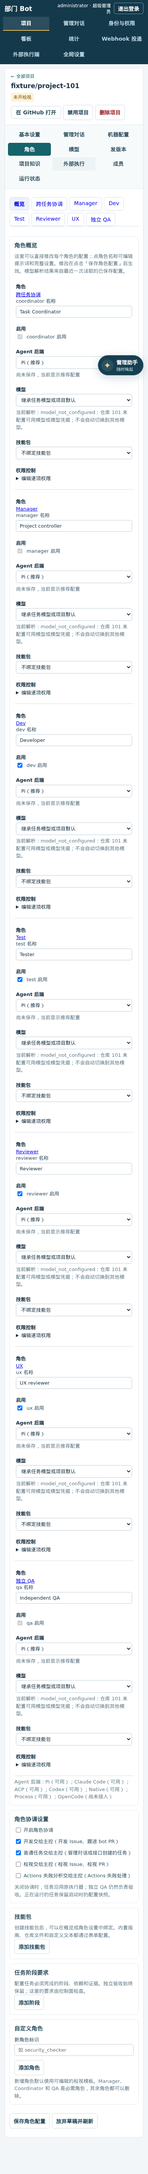
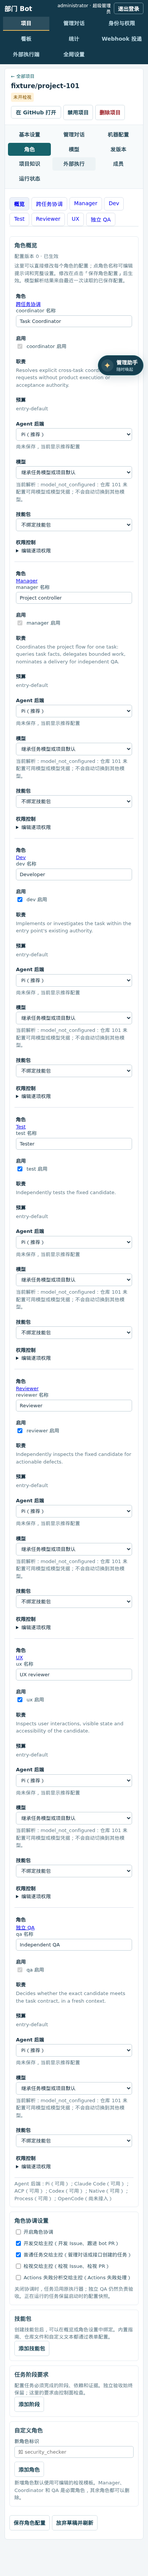
fix(roles): mark the draft dirty through one entry so the version line never lies
The line only refreshed for controls that went through `roleBound`. A plain
`<select>` — model, permission mode, skill bundle, model API, structured
output, environment, output schema, budget currency — set `state.dirty`
directly, so the overview kept saying "已生效" while the draft had moved. All
22 edit paths now go through `markDirty`, which sets the flag and refreshes the
line wherever it is on screen. The line also stops claiming a revision for a
configuration that was never saved: it says 尚未保存角色配置 instead of
配置版本 0 · 已生效. Screenshots are refreshed for the pair.

diff --git a/static/roles.js b/static/roles.js
@@ -9,12 +9,17 @@ function roleSelect(name, value, choices, change) {
   if (!Array.from(select.querySelectorAll('option')).some(option => option.value === String(value ?? ''))) select.add(new Option(`当前选项不可用：${value}`, value));
   select.value = value ?? ''; select.addEventListener('change', () => change(select.value)); return select;
 }
-// The list states which revision is in force and whether the draft has moved away from it; every control that
-// dirties the draft refreshes that line, so "saved" and "edited but not saved" are never confused.
+// The list states which revision is in force and whether the draft has moved away from it. A configuration that was
+// never saved has no revision to name, so it says that instead of printing "version 0 · in force".
 let roleDraftStatus = null;
-const roleVersionText = state => `配置版本 ${state.data.revision} · ${state.dirty ? '草稿未保存' : '已生效'}`;
+const roleVersionText = state => state.data.configured
+  ? `配置版本 ${state.data.revision} · ${state.dirty ? '草稿未保存' : '已生效'}`
+  : `尚未保存角色配置${state.dirty ? ' · 草稿未保存' : ''}`;
+// The one way an edit marks the draft dirty. Controls that redraw and controls that only mutate the draft all end up
+// here, so the version line cannot say "in force" while the draft has moved — that was the defect this replaces.
+function markDirty(state) { state.dirty = true; if (roleDraftStatus) roleDraftStatus.textContent = roleVersionText(state); }
 function roleBound(control, change, state) {
-  const edit = () => { change(control.type === 'checkbox' ? control.checked : control.value); state.dirty = true; if (roleDraftStatus) roleDraftStatus.textContent = roleVersionText(state); };
+  const edit = () => { change(control.type === 'checkbox' ? control.checked : control.value); markDirty(state); };
   control.addEventListener('input', edit); control.addEventListener('change', edit); return control;
 }
 function roleText(label, object, key, state, { multiline = false, ...attributes } = {}) {
@@ -35,7 +40,7 @@ function roleChoices(title, object, key, choices, state) {
 function roleModelPicker(role, state, redraw) {
   const { data } = state, backend = data.harnesses.find(entry => entry.id === role.harness_ref.id), external = !!backend?.externalModel;
   const select = roleSelect(role.role_id + ' 模型', role.model_profile_ref?.model_id || '', [['', external ? 'Agent 自带模型' : '继承任务模型或项目默认'], ...(data.models || []).map(model => [model.id, model.name + (model.shared ? '（共享）' : '')])], id => {
-    state.dirty = true;
+    markDirty(state);
     role.model_profile_ref = id ? { model_id: id, api: backend?.model_api?.[0] || 'openai-chat-completions', tool_calls: true, structured_output: backend?.structured_output?.includes('tool_call') ? 'tool_call' : backend?.structured_output?.[0] || 'tool_call' } : null;
   });
   if (redraw) select.addEventListener('change', redraw);
@@ -43,7 +48,7 @@ function roleModelPicker(role, state, redraw) {
 }
 function roleBackendPicker(role, state, redraw) {
   return roleSelect(role.role_id + ' Agent 后端', role.harness_ref.id, state.data.backends.map(backend => [backend.id, backend.name + (backend.recommended ? '（推荐）' : '') + (backend.available ? '' : '（尚不可用）'), !backend.available || !backend.kinds.includes(role.kind)]), id => {
-    role.harness_ref = { id }; state.dirty = true;
+    role.harness_ref = { id }; markDirty(state);
     // A backend that brings its own model cannot accept a project model profile.
     if (state.data.harnesses.find(backend => backend.id === id)?.externalModel) role.model_profile_ref = null;
     redraw();
@@ -54,7 +59,7 @@ function rolePermissionEditor(role, state) {
   const box = element('fieldset', '', 'role-permissions'); box.append(element('legend', '权限控制'));
   box.append(note('逐项设置。工具还必须由当前任务入口提供，并受项目和任务授权限制。文件只读不会禁止命令修改文件；要禁止命令，请同时将「运行命令」设为拒绝。'));
   for (const item of state.data.permission_items || []) {
-    const control = roleSelect(role.role_id + ' ' + item.name + '权限', role.permissions[item.id], item.modes.map(mode => [mode, permissionModeLabels[mode]]), value => { role.permissions[item.id] = value; state.dirty = true; });
+    const control = roleSelect(role.role_id + ' ' + item.name + '权限', role.permissions[item.id], item.modes.map(mode => [mode, permissionModeLabels[mode]]), value => { role.permissions[item.id] = value; markDirty(state); });
     const row = element('div', '', 'role-permission-row'); row.append(field(item.name, control), note(item.detail)); box.append(row);
   }
   return box;
@@ -136,12 +141,12 @@ function roleOverviewCards(state, redraw) {
   const error = element('p', '', 'view-error'); custom.append(field('新角色标识', name), button('添加角色', () => {
     if (!/^[a-z][a-z0-9_-]{0,31}$/.test(name.value) || draft.roles.some(role => role.role_id === name.value)) { error.textContent = '使用小写字母开头的唯一名称，可包含数字、下划线或连字符。'; return; }
     const defaults = structuredClone(Object.hasOwn(data.role_defaults, name.value) ? data.role_defaults[name.value] : data.role_defaults.observer);
-    draft.roles.push({ role_id: name.value, enabled: true, name: name.value, responsibility: '', persona_prompt: Object.hasOwn(data.role_templates || {}, name.value) ? data.role_templates[name.value] : data.role_templates.observer, model_profile_ref: null, skill_bundle_ref: null, harness_ref: { id: data.recommended_backend || 'pi' }, budget_policy_ref: { id: 'entry-default' }, ...defaults }); draft.deleted_roles = (draft.deleted_roles || []).filter(id => id !== name.value); state.dirty = true; redraw();
+    draft.roles.push({ role_id: name.value, enabled: true, name: name.value, responsibility: '', persona_prompt: Object.hasOwn(data.role_templates || {}, name.value) ? data.role_templates[name.value] : data.role_templates.observer, model_profile_ref: null, skill_bundle_ref: null, harness_ref: { id: data.recommended_backend || 'pi' }, budget_policy_ref: { id: 'entry-default' }, ...defaults }); draft.deleted_roles = (draft.deleted_roles || []).filter(id => id !== name.value); markDirty(state); redraw();
   }), note('新增角色默认使用可编辑的检视模板。Manager、Coordinator 和 QA 是必需角色，其余角色都可以删除。'), error);
   return [overview, coordination, roleSkillsCard(state, redraw), roleStagesCard(state, redraw), custom];
 }
 function roleSkillPicker(role, state) {
-  return roleSelect(role.role_id + ' 技能包', role.skill_bundle_ref?.id || '', [['', '不绑定技能包'], ...state.draft.skills.map(bundle => [bundle.id, bundle.id])], id => { role.skill_bundle_ref = id ? { id } : null; state.dirty = true; });
+  return roleSelect(role.role_id + ' 技能包', role.skill_bundle_ref?.id || '', [['', '不绑定技能包'], ...state.draft.skills.map(bundle => [bundle.id, bundle.id])], id => { role.skill_bundle_ref = id ? { id } : null; markDirty(state); });
 }
 function roleSettingsCard(role, state, redraw) {
   const section = card(roleLabel(role.role_id, role.name) + ' 设置');
@@ -149,21 +154,21 @@ function roleSettingsCard(role, state, redraw) {
     roleText('职责', role, 'responsibility', state, { multiline: true, rows: 3, maxLength: 2000 }), field('Agent 后端', roleBackendPicker(role, state, redraw)), field('模型', roleModelPicker(role, state, redraw)));
   const profile = role.model_profile_ref, backend = state.data.harnesses.find(entry => entry.id === role.harness_ref.id);
   if (profile) {
-    section.append(field('模型 API', roleSelect('模型 API', profile.api, (backend?.model_api || []).map(id => [id, id]), value => { profile.api = value; state.dirty = true; })),
-      roleCheck('模型支持工具调用', profile, 'tool_calls', state), field('结构化输出方式', roleSelect('结构化输出方式', profile.structured_output, (backend?.structured_output || []).map(id => [id, id]), value => { profile.structured_output = value; state.dirty = true; })));
+    section.append(field('模型 API', roleSelect('模型 API', profile.api, (backend?.model_api || []).map(id => [id, id]), value => { profile.api = value; markDirty(state); })),
+      roleCheck('模型支持工具调用', profile, 'tool_calls', state), field('结构化输出方式', roleSelect('结构化输出方式', profile.structured_output, (backend?.structured_output || []).map(id => [id, id]), value => { profile.structured_output = value; markDirty(state); })));
   }
   const system = textarea('system_prompt', state.data.system_prompt, { rows: 6, readOnly: true }); system.setAttribute('aria-label', '系统提示词'); system.readOnly = true;
   section.append(field('系统提示词', system), note('所有角色共用的系统背景、环境说明和基本行为准则。角色职责与任务记录规则在下面的提示词中直接修改。'));
   section.append(roleText('角色提示词', role, 'persona_prompt', state, { multiline: true, rows: 18, maxLength: 32000 }), note('这份提示词包含角色完整的职责与行为要求，可以全部修改或清空；系统不会再追加固定职责。'), button('恢复角色模板', async () => {
     if (!await askConfirm({ title: '恢复角色模板？', body: ['当前角色提示词将替换为默认模板，保存后生效。'], action: '恢复模板' })) return;
-    role.persona_prompt = (Object.hasOwn(state.data.role_templates, role.role_id) ? state.data.role_templates[role.role_id] : state.data.role_templates.observer); state.dirty = true; redraw();
+    role.persona_prompt = (Object.hasOwn(state.data.role_templates, role.role_id) ? state.data.role_templates[role.role_id] : state.data.role_templates.observer); markDirty(state); redraw();
   }));
   section.append(field('技能包', roleSkillPicker(role, state)), rolePermissionEditor(role, state));
   const environment = state.data.environment_profiles.filter(entry => entry.kinds.includes(role.kind));
-  section.append(field('运行环境', roleSelect('运行环境', role.environment_profile_ref.id, environment.map(entry => [entry.id, environmentLabels[entry.id] || entry.id, entry.isolation === 'run_container' && backend?.capabilities?.isolation !== 'run_environment']), id => { role.environment_profile_ref = { id }; state.dirty = true; })));
-  section.append(field('输出结果', roleSelect('输出结果', role.output_schema_ref.id, state.data.output_schemas.filter(entry => entry.kinds.includes(role.kind)).map(entry => [entry.id, outputLabels[entry.id] || entry.id]), id => { role.output_schema_ref = { id }; state.dirty = true; })));
+  section.append(field('运行环境', roleSelect('运行环境', role.environment_profile_ref.id, environment.map(entry => [entry.id, environmentLabels[entry.id] || entry.id, entry.isolation === 'run_container' && backend?.capabilities?.isolation !== 'run_environment']), id => { role.environment_profile_ref = { id }; markDirty(state); })));
+  section.append(field('输出结果', roleSelect('输出结果', role.output_schema_ref.id, state.data.output_schemas.filter(entry => entry.kinds.includes(role.kind)).map(entry => [entry.id, outputLabels[entry.id] || entry.id]), id => { role.output_schema_ref = { id }; markDirty(state); })));
   section.append(field('预算方式', roleSelect('预算方式', role.budget_policy_ref.id, [['entry-default', '沿用任务限制'], ['bounded', '限制单次运行'], ['metered', '限制任务累计用量']], id => {
-    const old = role.budget_policy_ref; role.budget_policy_ref = id === 'entry-default' ? { id } : { id, max_turns: old.max_turns || 32, max_output_tokens: old.max_output_tokens || 4096 }; state.dirty = true; redraw();
+    const old = role.budget_policy_ref; role.budget_policy_ref = id === 'entry-default' ? { id } : { id, max_turns: old.max_turns || 32, max_output_tokens: old.max_output_tokens || 4096 }; markDirty(state); redraw();
   })));
   if (role.budget_policy_ref.id !== 'entry-default') {
     for (const [key, title, min, max] of budgetFields.slice(0, role.budget_policy_ref.id === 'bounded' ? 2 : undefined)) {
@@ -172,7 +177,7 @@ function roleSettingsCard(role, state, redraw) {
     }
     if (role.budget_policy_ref.id === 'metered') {
       const cost = role.budget_policy_ref.max_cost, amount = input('max_cost', cost?.amount || '', { type: 'number', min: 0.000001, max: 1000000, step: 'any' });
-      const currency = roleSelect('预算币种', cost?.currency || 'USD', [['USD', '美元'], ['CNY', '人民币']], value => { if (role.budget_policy_ref.max_cost) role.budget_policy_ref.max_cost.currency = value; state.dirty = true; });
+      const currency = roleSelect('预算币种', cost?.currency || 'USD', [['USD', '美元'], ['CNY', '人民币']], value => { if (role.budget_policy_ref.max_cost) role.budget_policy_ref.max_cost.currency = value; markDirty(state); });
       section.append(field('任务累计金额上限（留空不设置）', roleBound(amount, value => { if (value === '') delete role.budget_policy_ref.max_cost; else role.budget_policy_ref.max_cost = { amount: Number(value), currency: currency.value }; }, state)), field('预算币种', currency));
     }
   }
@@ -181,7 +186,7 @@ function roleSettingsCard(role, state, redraw) {
     if (stages.length) { await askConfirm({ title: '先调整任务阶段', body: ['这些阶段仍指定了该角色：' + stages.map(stage => stage.stage_id).join('、') + '。请在概览中修改阶段角色或移除阶段，再删除角色。'], action: '知道了' }); return; }
     if (!await askConfirm({ title: '删除角色 ' + role.name + '？', body: ['保存后该角色不再参与新任务，正在运行的角色也会停止使用工具。阶段要求如引用此角色，需要一并调整。'], action: '删除角色' })) return;
     state.draft.roles = state.draft.roles.filter(entry => entry !== role);
-    if (state.data.configuration.roles.some(entry => entry.role_id === role.role_id)) state.draft.deleted_roles = [...new Set([...(state.draft.deleted_roles || []), role.role_id])]; state.dirty = true; current.item = null; history.replaceState(null, '', `#/projects/${current.id}/roles`); redraw(); }, 'quiet destructive'));
+    if (state.data.configuration.roles.some(entry => entry.role_id === role.role_id)) state.draft.deleted_roles = [...new Set([...(state.draft.deleted_roles || []), role.role_id])]; markDirty(state); current.item = null; history.replaceState(null, '', `#/projects/${current.id}/roles`); redraw(); }, 'quiet destructive'));
   return section;
 }
 function roleSkillsCard(state, redraw) {
@@ -192,18 +197,18 @@ function roleSkillsCard(state, redraw) {
     name.addEventListener('change', redraw);
     group.append(element('legend', bundle.id), field('技能包名称', name));
     group.append(field('来源', roleSelect('技能来源', bundle.source.type, [['builtin', '内置指南'], ['repository', '仓库技能文件'], ['inline', '自定义文件']], type => {
-      bundle.source = type === 'builtin' ? { type, playbooks: [] } : type === 'repository' ? { type, commit: data.skill_sources?.repository?.commit || '', paths: [] } : { type, files: [{ path: 'guide.md', content: '' }] }; state.dirty = true; redraw();
+      bundle.source = type === 'builtin' ? { type, playbooks: [] } : type === 'repository' ? { type, commit: data.skill_sources?.repository?.commit || '', paths: [] } : { type, files: [{ path: 'guide.md', content: '' }] }; markDirty(state); redraw();
     })));
     if (bundle.source.type === 'builtin') group.append(roleChoices('内置指南', bundle.source, 'playbooks', (data.playbooks || []).map(entry => [entry.id, entry.name]), state));
     else if (bundle.source.type === 'repository') {
       group.append(roleText('固定仓库提交', bundle.source, 'commit', state, { maxLength: 40 }), roleChoices('仓库技能文件', bundle.source, 'paths', (data.skill_sources?.repository?.paths || []).map(path => [path, path]), state));
     } else {
-      for (const file of bundle.source.files) group.append(roleText('文件路径', file, 'path', state), roleText('文件内容', file, 'content', state, { multiline: true, rows: 5 }), button('移除文件', () => { bundle.source.files = bundle.source.files.filter(entry => entry !== file); state.dirty = true; redraw(); }));
-      group.append(button('添加文件', () => { bundle.source.files.push({ path: '', content: '' }); state.dirty = true; redraw(); }));
+      for (const file of bundle.source.files) group.append(roleText('文件路径', file, 'path', state), roleText('文件内容', file, 'content', state, { multiline: true, rows: 5 }), button('移除文件', () => { bundle.source.files = bundle.source.files.filter(entry => entry !== file); markDirty(state); redraw(); }));
+      group.append(button('添加文件', () => { bundle.source.files.push({ path: '', content: '' }); markDirty(state); redraw(); }));
     }
-    group.append(button('移除技能包', () => { draft.skills = draft.skills.filter(entry => entry !== bundle); for (const role of draft.roles) if (role.skill_bundle_ref?.id === bundle.id) role.skill_bundle_ref = null; state.dirty = true; redraw(); }, 'quiet destructive')); section.append(group);
+    group.append(button('移除技能包', () => { draft.skills = draft.skills.filter(entry => entry !== bundle); for (const role of draft.roles) if (role.skill_bundle_ref?.id === bundle.id) role.skill_bundle_ref = null; markDirty(state); redraw(); }, 'quiet destructive')); section.append(group);
   }
-  section.append(button('添加技能包', () => { let n = 1; while (draft.skills.some(bundle => bundle.id === 'skills_' + n)) n++; draft.skills.push({ id: 'skills_' + n, source: { type: 'inline', files: [{ path: 'guide.md', content: '' }] } }); state.dirty = true; redraw(); })); return section;
+  section.append(button('添加技能包', () => { let n = 1; while (draft.skills.some(bundle => bundle.id === 'skills_' + n)) n++; draft.skills.push({ id: 'skills_' + n, source: { type: 'inline', files: [{ path: 'guide.md', content: '' }] } }); markDirty(state); redraw(); })); return section;
 }
 function roleStagesCard(state, redraw) {
   const section = card('任务阶段要求'), { draft } = state;
@@ -215,7 +220,7 @@ function roleStagesCard(state, redraw) {
     group.append(element('legend', stage.stage_id), field('阶段标识', name), roleCheck('必须完成', stage, 'required', state));
     group.append(roleChoices('适用交付', stage, 'delivery_types', [['code', '代码'], ['artifact', '文档或其他产物'], ['no_changes', '无需修改']], state),
       roleChoices('依赖阶段', stage, 'depends_on', draft.required_stages.filter(entry => entry !== stage).map(entry => [entry.stage_id, entry.stage_id]), state));
-    group.append(field('执行角色类型', roleSelect('执行角色类型', stage.role_constraints.kinds[0], [['writer', '开发角色'], ['observer', '观察角色']], kind => { stage.role_constraints.kinds = [kind]; state.dirty = true; redraw(); })),
+    group.append(field('执行角色类型', roleSelect('执行角色类型', stage.role_constraints.kinds[0], [['writer', '开发角色'], ['observer', '观察角色']], kind => { stage.role_constraints.kinds = [kind]; markDirty(state); redraw(); })),
       roleChoices('限定角色（不选表示同类型任一角色）', stage.role_constraints, 'role_ids', draft.roles.filter(role => stage.role_constraints.kinds.includes(role.kind)).map(role => [role.role_id, roleLabel(role.role_id, role.name)]), state),
       roleCheck('要求独立执行', stage.role_constraints, 'independent', state),
       roleChoices('执行器必需能力', stage.role_constraints, 'capabilities', (state.data.stage_capabilities || []).map(entry => [entry.id, entry.name]), state),
@@ -224,7 +229,7 @@ function roleStagesCard(state, redraw) {
     for (const [object, key, caption, max, optional] of [[stage.completion, 'min_evidence', '最少证据数', 100], [stage.retry, 'max_attempts', '最多尝试次数', 20], [stage.budget, 'max_tool_calls', '阶段最多工具调用', 10000, true], [stage.budget, 'max_wall_seconds', '阶段最多秒数', 86400, true]]) {
       const control = input(key, object[key] ?? '', { type: 'number', min: 1, max, step: 1 }); group.append(field(caption, roleBound(control, value => { if (optional && !value) delete object[key]; else object[key] = Number(value); }, state)));
     }
-    group.append(button('移除阶段', () => { draft.required_stages = draft.required_stages.filter(entry => entry !== stage); for (const entry of draft.required_stages) entry.depends_on = entry.depends_on.filter(id => id !== stage.stage_id); state.dirty = true; redraw(); }, 'quiet destructive')); section.append(group);
+    group.append(button('移除阶段', () => { draft.required_stages = draft.required_stages.filter(entry => entry !== stage); for (const entry of draft.required_stages) entry.depends_on = entry.depends_on.filter(id => id !== stage.stage_id); markDirty(state); redraw(); }, 'quiet destructive')); section.append(group);
   }
-  section.append(button('添加阶段', () => { let n = 1; while (draft.required_stages.some(stage => stage.stage_id === 'review_' + n)) n++; draft.required_stages.push({ stage_id: 'review_' + n, depends_on: [], delivery_types: ['code', 'artifact', 'no_changes'], role_constraints: { kinds: ['observer'], capabilities: ['fresh_context', 'fixed_candidate_read', 'raw_evidence'], independent: true }, required: true, completion: { evidence_types: ['role_result'], min_evidence: 1, no_findings: true }, retry: { max_attempts: 3 }, budget: {} }); state.dirty = true; redraw(); })); return section;
+  section.append(button('添加阶段', () => { let n = 1; while (draft.required_stages.some(stage => stage.stage_id === 'review_' + n)) n++; draft.required_stages.push({ stage_id: 'review_' + n, depends_on: [], delivery_types: ['code', 'artifact', 'no_changes'], role_constraints: { kinds: ['observer'], capabilities: ['fresh_context', 'fixed_candidate_read', 'raw_evidence'], independent: true }, required: true, completion: { evidence_types: ['role_result'], min_evidence: 1, no_findings: true }, retry: { max_attempts: 3 }, budget: {} }); markDirty(state); redraw(); })); return section;
 }
